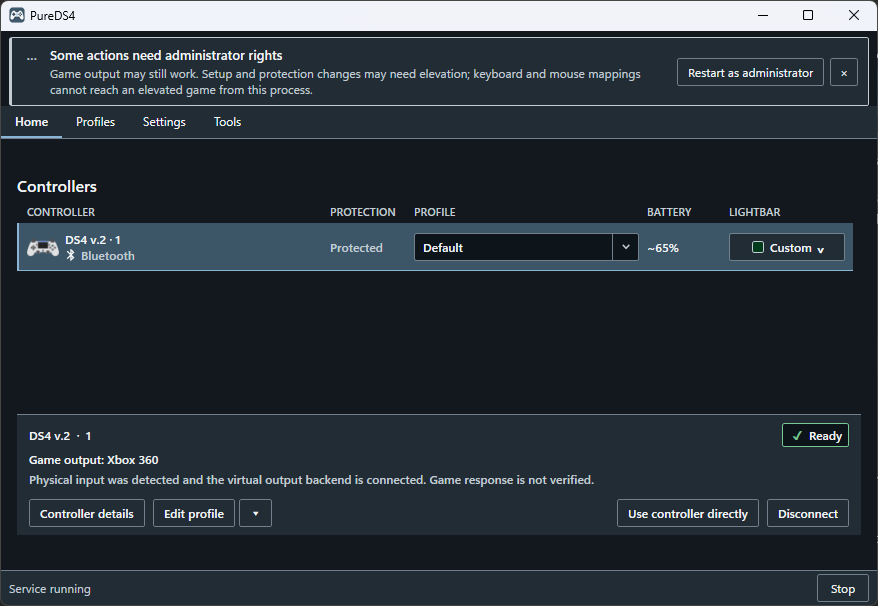
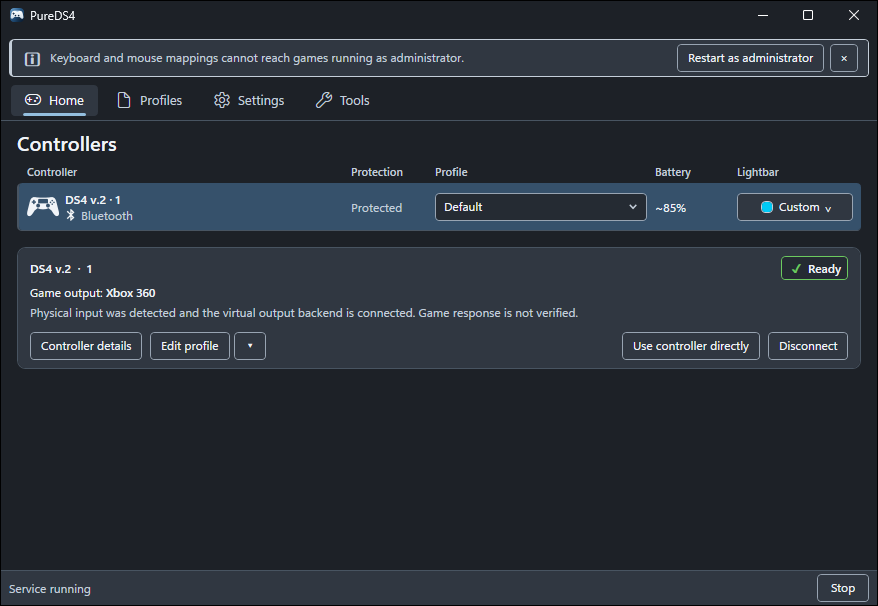
Replace README screenshots with the 26.11.0 interface
Home and Controller Readings captured from the installed 26.11.0
(app SHA-256 0EFF3D6D...20C7) with the owner's DS4 over Bluetooth.
Window-only captures; no controller address or personal data shown.

diff --git a/README.md b/README.md
@@ -128,10 +128,10 @@ game output.
 <details>
 <summary>Profile editor: live controller readings</summary>
 
-Inspect sticks, triggers and motion sensors while editing a profile.
+Inspect sticks, triggers, touchpad and motion sensors while editing a profile.
 
 <a href="docs/images/screenshots/controller-readings.png">
-  <img src="docs/images/screenshots/controller-readings.png" alt="PureDS4 profile editor showing live stick, trigger, gyro and accelerometer readings" width="800">
+  <img src="docs/images/screenshots/controller-readings.png" alt="PureDS4 profile editor showing live stick, trigger, touchpad, gyro, accelerometer and tilt readings for a DS4 over Bluetooth" width="800">
 </a>
 
 </details>
